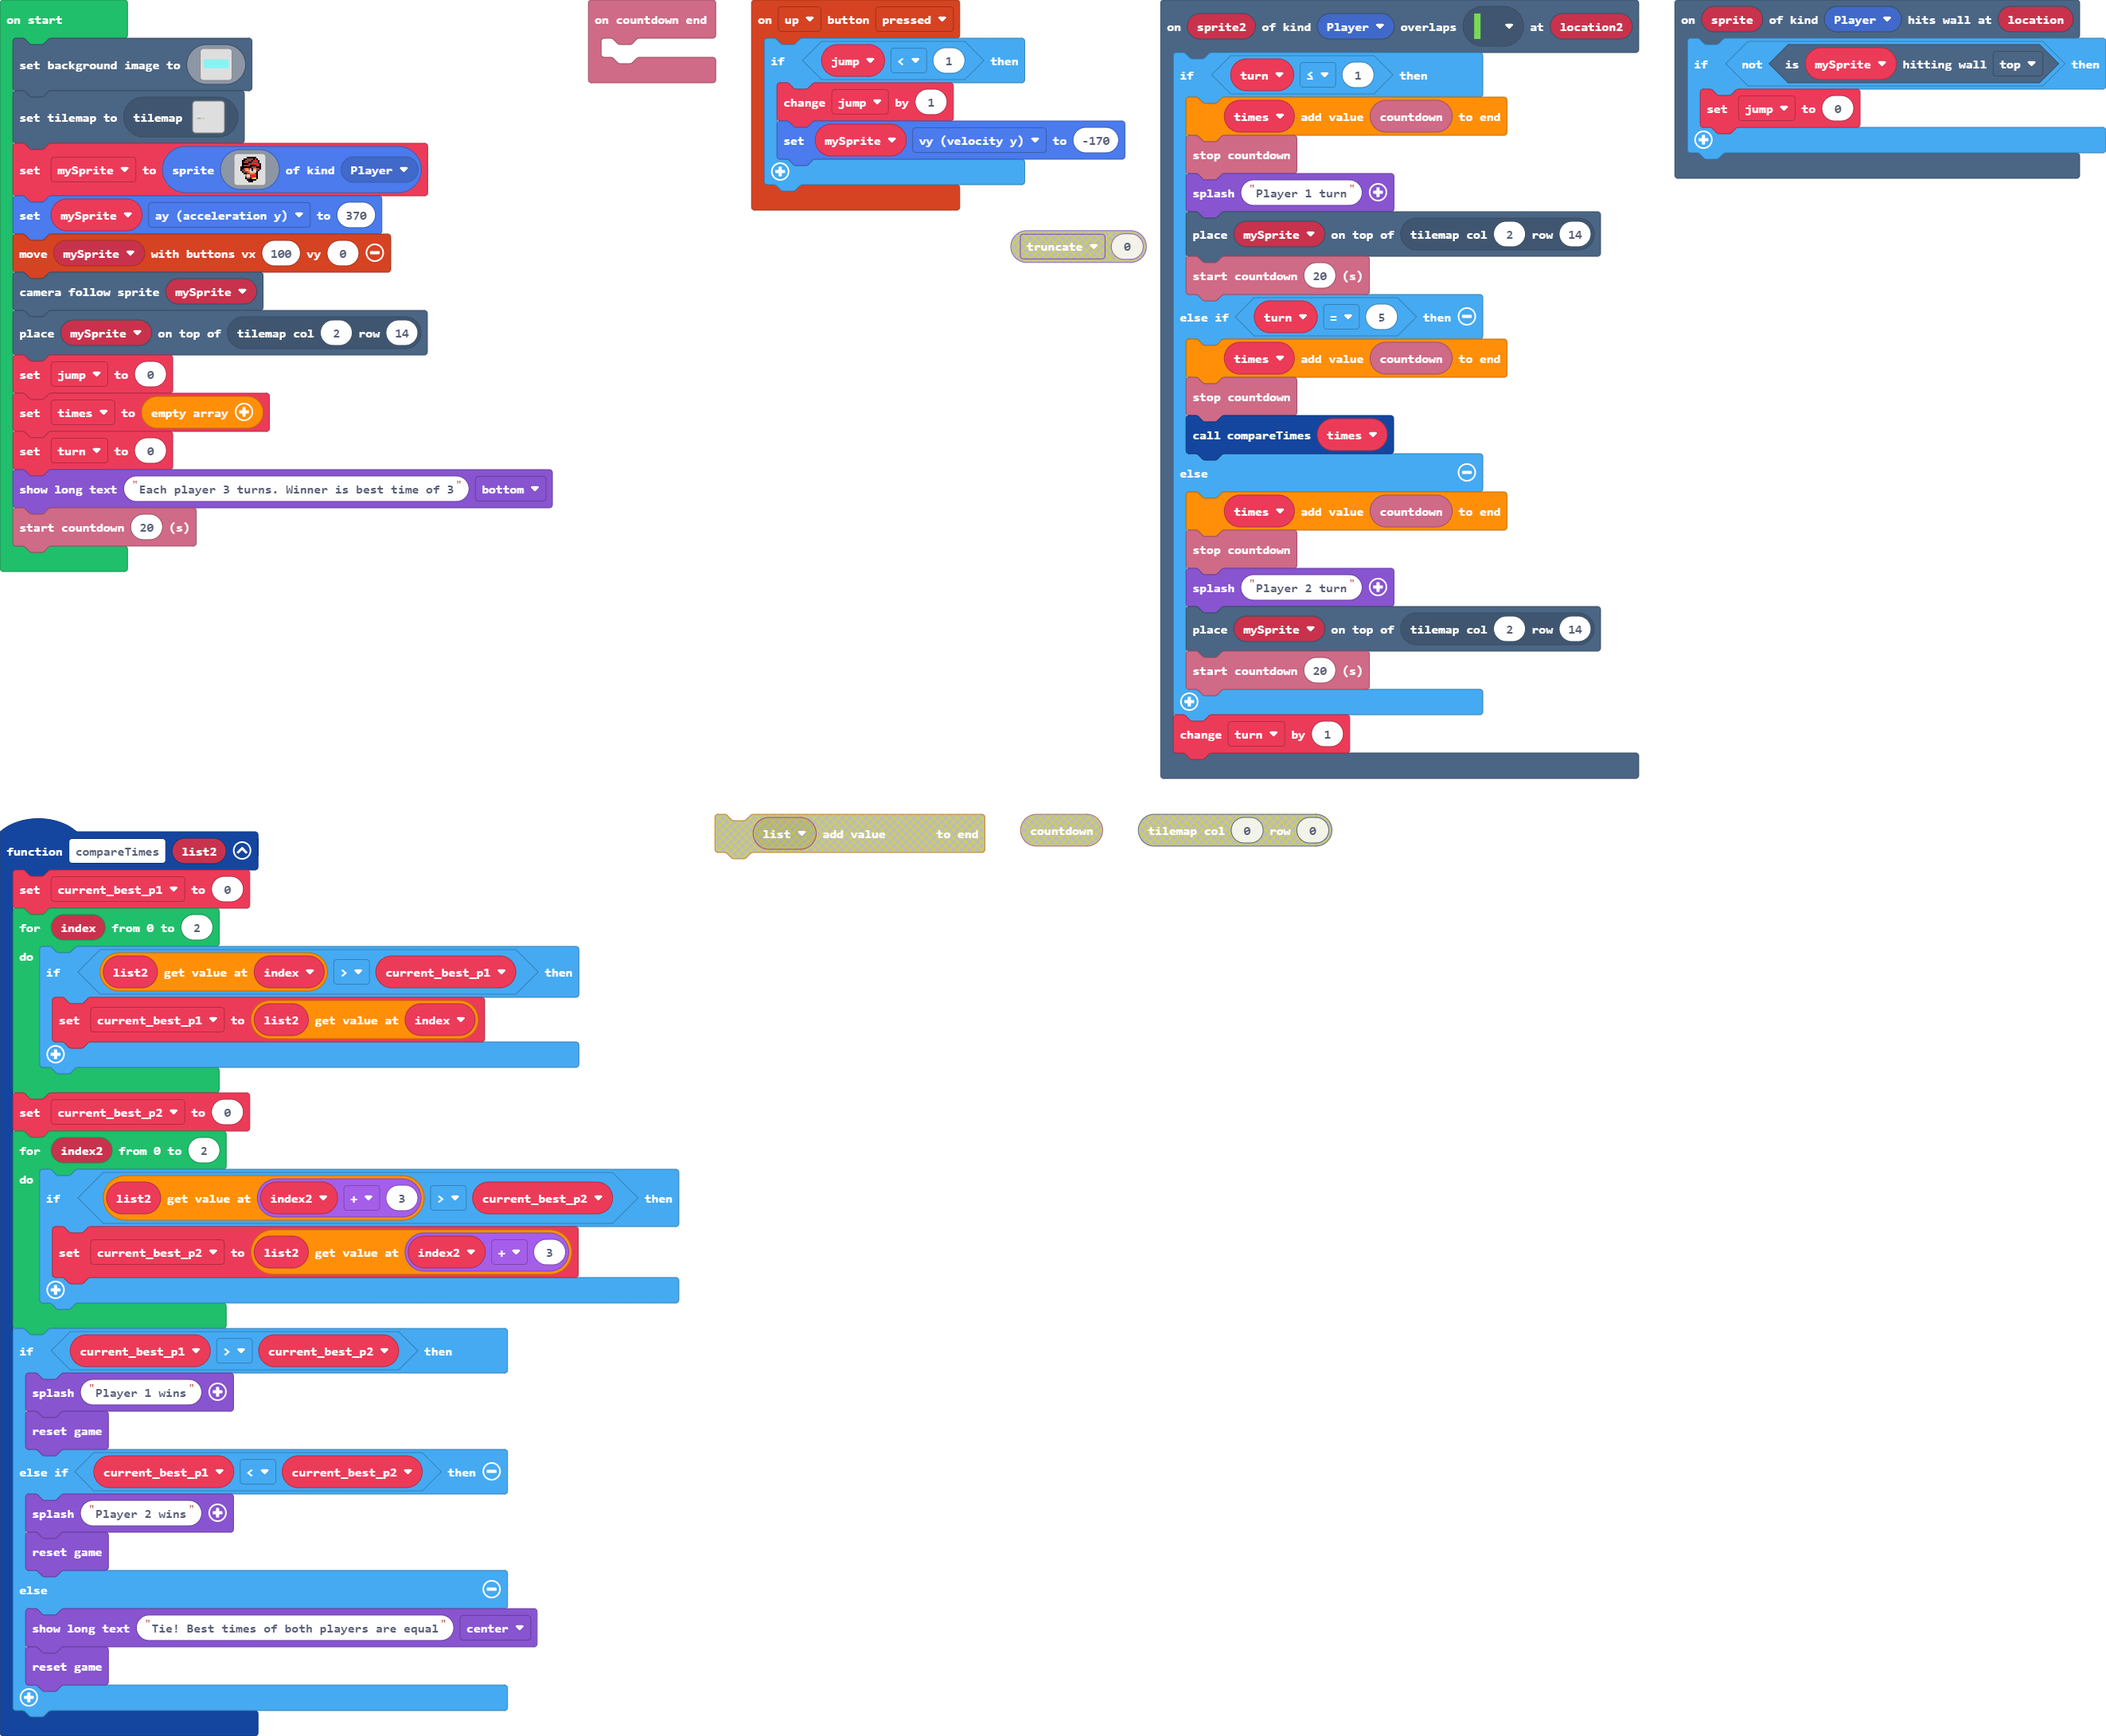
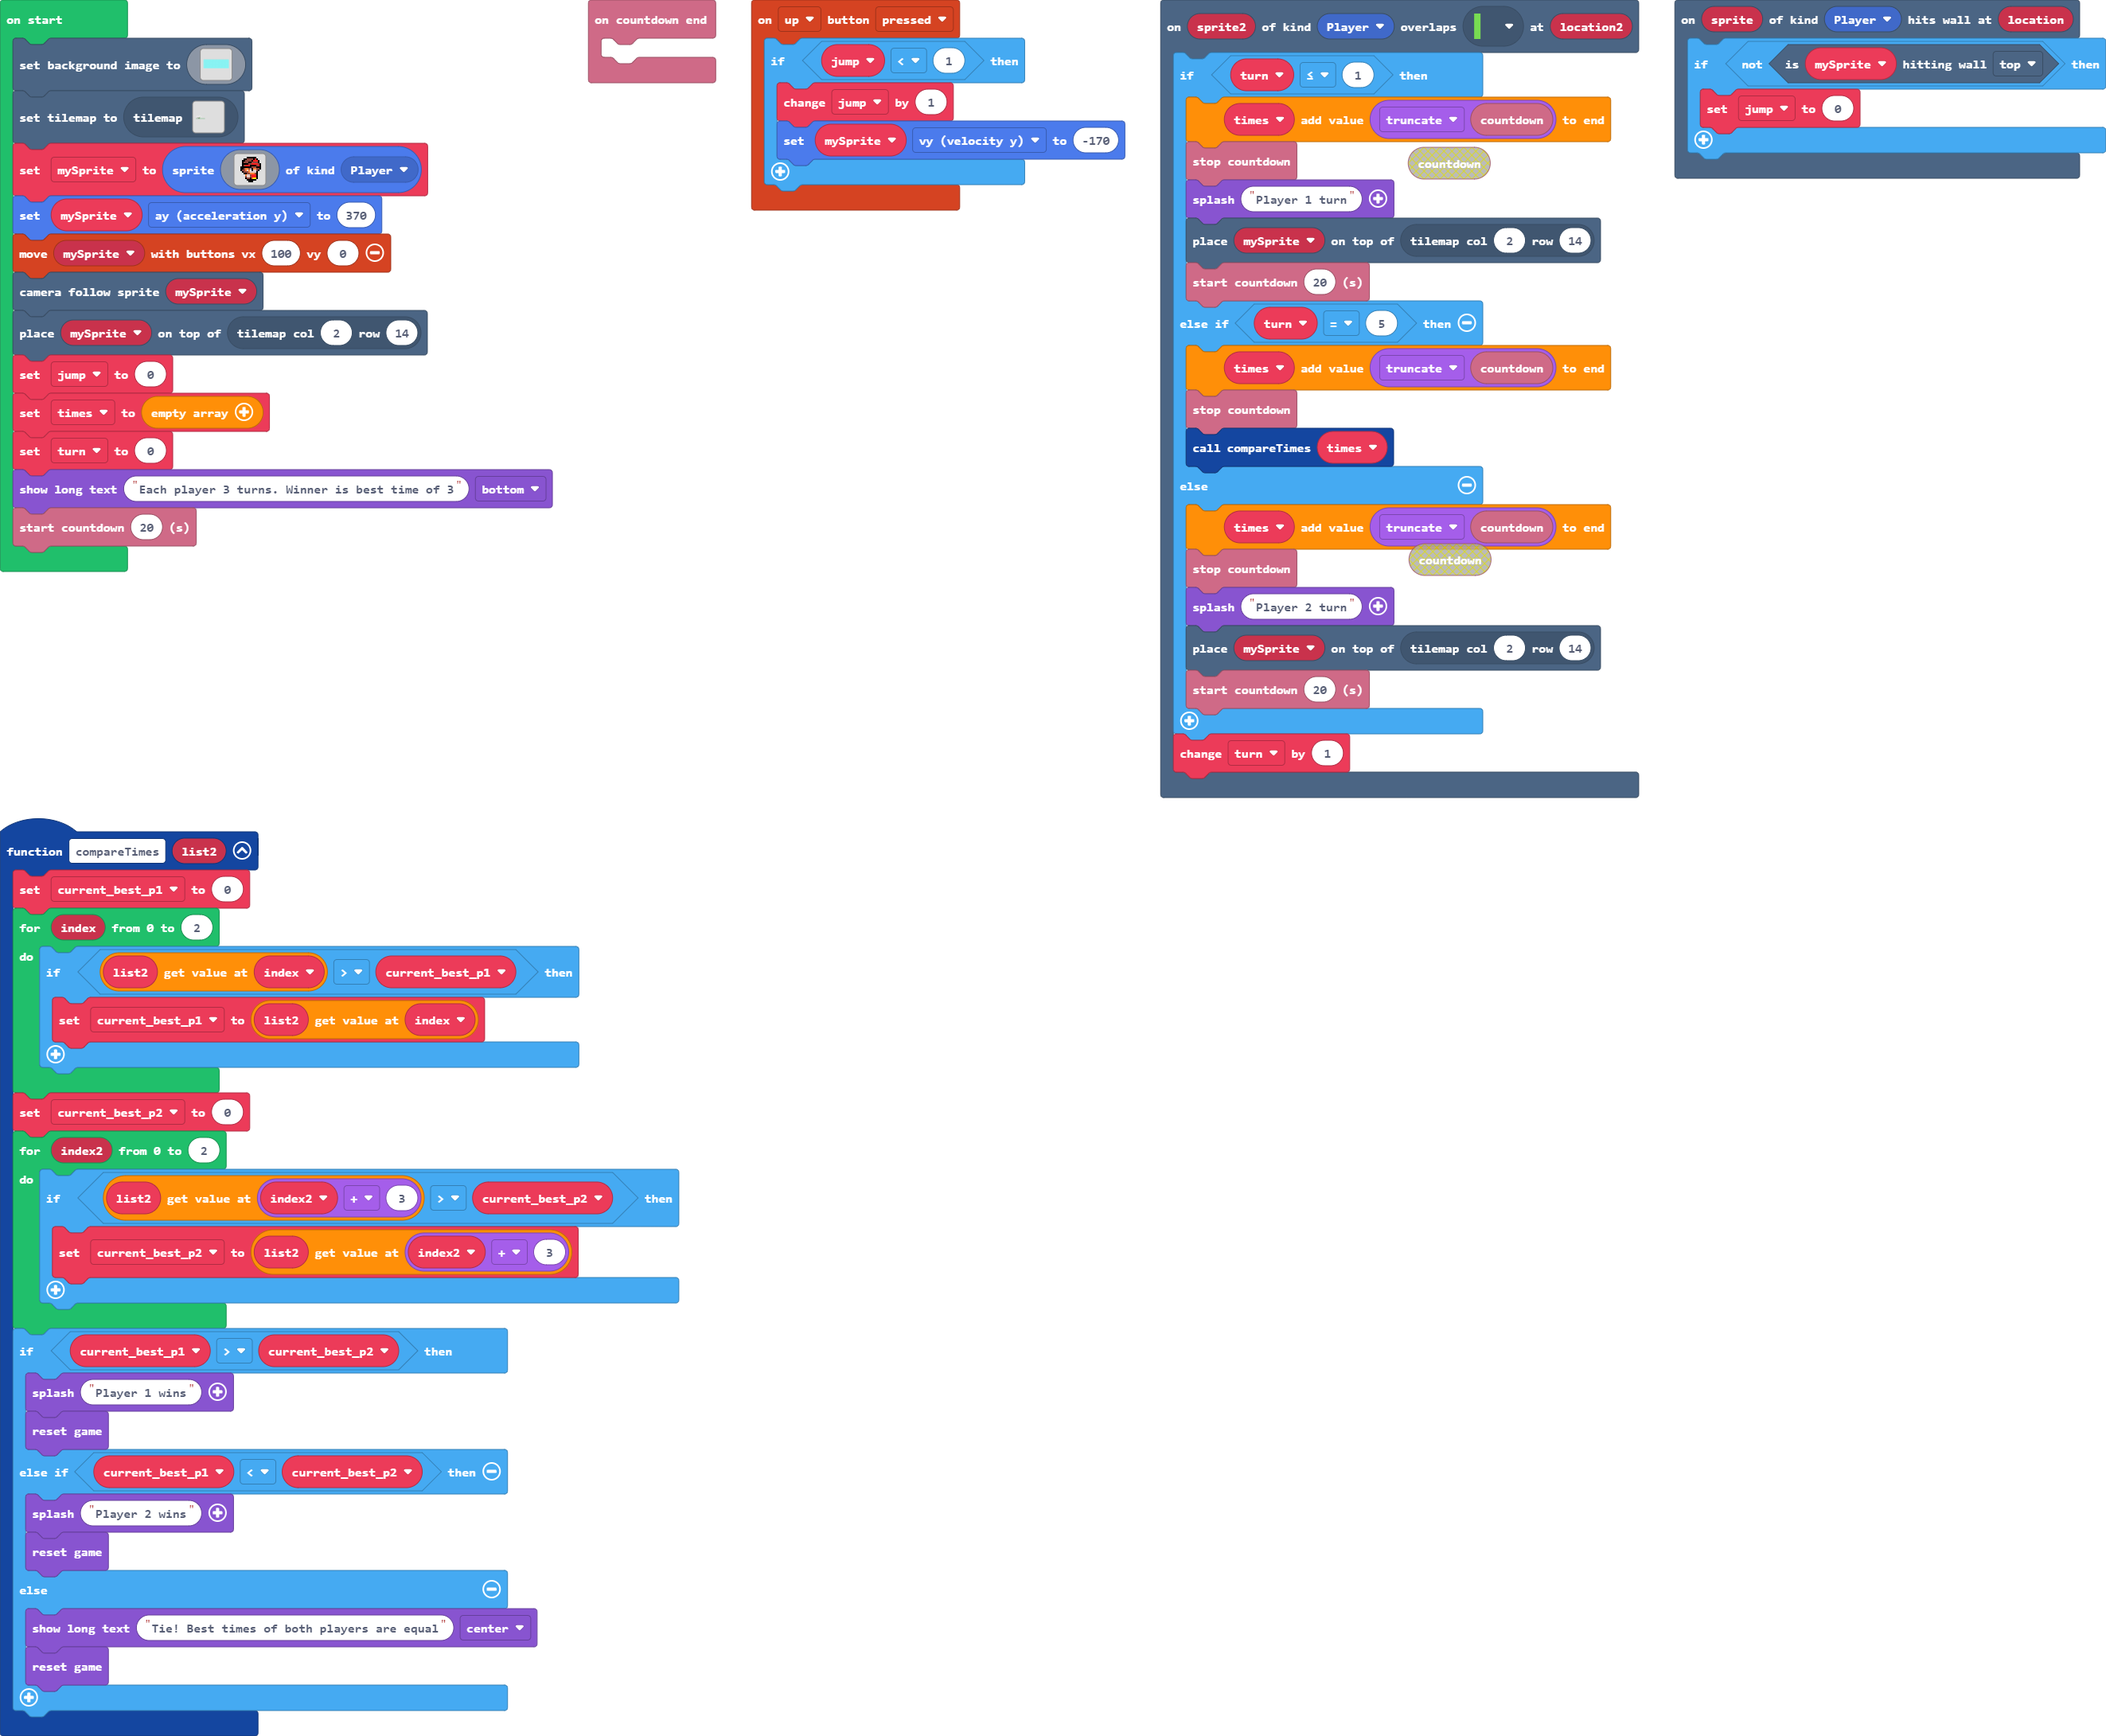
Update main.blocks, main.ts, tilemap.g.jres, tilemap.g.ts

Changed region(s): [[0.3409, 0.0312, 0.7748, 0.4989]]

diff --git a/tilemap.g.ts b/tilemap.g.ts
@@ -60,24 +60,24 @@ namespace myTiles {
 . . . . . . . . . . . . . . . . 
 `, [myTiles.transparency16], TileScale.Sixteen);
             case "level1":
[2 lines of base64/hex data omitted]
+................2...................................................................................
+................2...................................................................................
+................2...................................................................................
+................2...................................................................................
+................2...................................................................................
+................2...................................................................................
+................2...................................................................................
+................2...................................................................................
+................2...................................................................................
+................2...................................................................................
 ....................................................................................................
-....................................................................................................
-....................................................................................................
-....................................................................................................
-....................................................................................................
-....................................................................................................
-....................................................................................................
-....................................................................................................
-....................................................................................................
-....................................................................................................
-....................................................................................................
-.........2..........................................................................................
-........222...22....................................................................................
-.............2......................................................................................
+.......2............................................................................................
+......222...222.....................................................................................
+...........2........................................................................................
 ....................................................................................................
 222222222222222222222222222222222222................................................................
-`, [myTiles.transparency16,sprites.builtin.forestTiles2,sprites.builtin.forestTiles1,myTiles.tile4,myTiles.tile3,myTiles.tile5,sprites.builtin.forestTiles3,sprites.builtin.forestTiles10,sprites.builtin.forestTiles5,sprites.builtin.forestTiles7,sprites.builtin.forestTiles11,myTiles.tile6,myTiles.tile7,myTiles.tile8], TileScale.Sixteen);
+`, [myTiles.transparency16,sprites.builtin.forestTiles2,sprites.builtin.forestTiles1,myTiles.tile4,myTiles.tile3,myTiles.tile5,sprites.builtin.forestTiles3,sprites.builtin.forestTiles10,sprites.builtin.forestTiles5,myTiles.tile6,myTiles.tile7,myTiles.tile8,sprites.builtin.forestTiles6,sprites.builtin.forestTiles18,sprites.builtin.forestTiles17,sprites.builtin.forestTiles19], TileScale.Sixteen);
         }
         return null;
     })

diff --git a/main.ts b/main.ts
@@ -38,17 +38,17 @@ function compareTimes (list2: number[]) {
 }
 scene.onOverlapTile(SpriteKind.Player, assets.tile`myTile2`, function (sprite2, location2) {
     if (turn <= 1) {
-        times.push(info.countdown())
+        times.push(Math.trunc(info.countdown()))
         info.stopCountdown()
         game.splash("Player 1 turn")
         tiles.placeOnTile(mySprite, tiles.getTileLocation(2, 14))
         info.startCountdown(20)
     } else if (turn == 5) {
-        times.push(info.countdown())
+        times.push(Math.trunc(info.countdown()))
         info.stopCountdown()
         compareTimes(times)
     } else {
-        times.push(info.countdown())
+        times.push(Math.trunc(info.countdown()))
         info.stopCountdown()
         game.splash("Player 2 turn")
         tiles.placeOnTile(mySprite, tiles.getTileLocation(2, 14))
